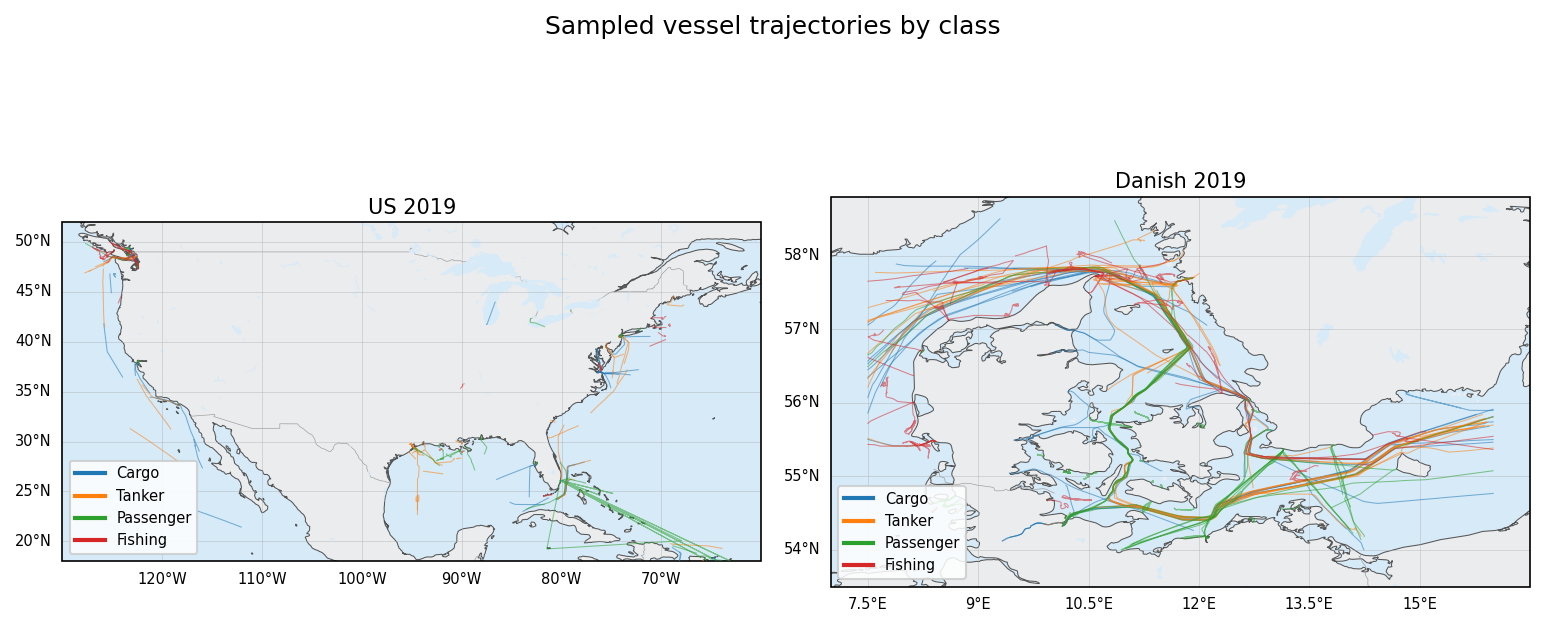
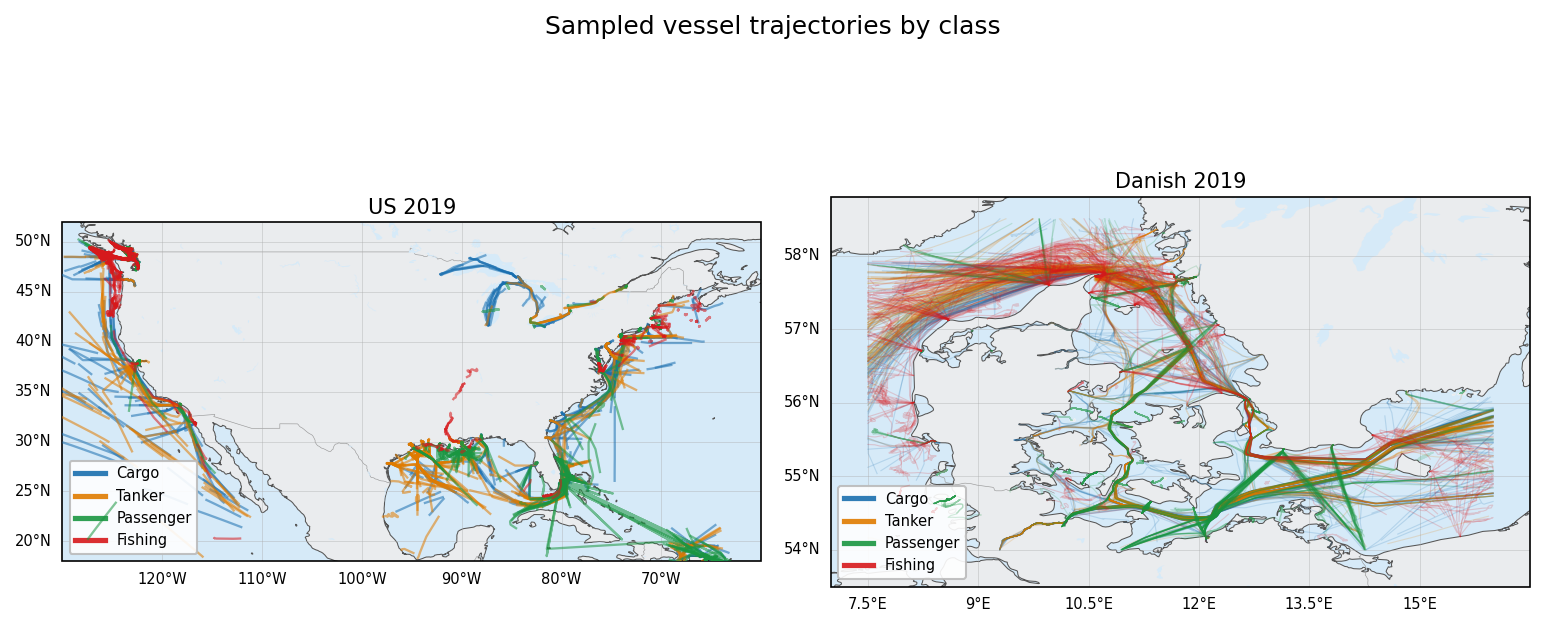
Increase trajectory density; adaptive alpha/lw per extent
- 500 samples/class (was 40); per-panel alpha and lw now scale with
  sqrt(extent_area) so US (~2400 sq-deg) and Danish (~50 sq-deg) read
  at comparable visual density
- More saturated class colors; draw order puts rarer classes on top

diff --git a/scripts/plot_trajectories.py b/scripts/plot_trajectories.py
@@ -24,8 +24,9 @@ import matplotlib.pyplot as plt
 import numpy as np
 import pandas as pd
 
-# class colors match paper/make_figures.py
-C = {"cargo": "#1f77b4", "tanker": "#ff7f0e", "passenger": "#2ca02c", "fishing": "#d62728"}
+# More saturated palette; draw order puts rarer/smaller classes on top
+C      = {"cargo": "#1a6faf", "tanker": "#e07b00", "passenger": "#1a9641", "fishing": "#d7191c"}
+ZORDER = {"cargo": 4, "tanker": 5, "passenger": 6, "fishing": 7}
 CLASSES = ["cargo", "tanker", "passenger", "fishing"]
 
 # Hard-coded extents [lon_min, lon_max, lat_min, lat_max] per region name prefix.
@@ -75,6 +76,19 @@ def _get_extent(name: str, trajs: list) -> list[float]:
     return [lo - pw, hi + pw, la - ph, ha + ph]
 
 
+def _alpha_lw(extent: list[float]) -> tuple[float, float]:
+    """Scale alpha and lw with extent area so large/small panels look equally dense."""
+    lon_min, lon_max, lat_min, lat_max = extent
+    area = (lon_max - lon_min) * (lat_max - lat_min)
+    # Danish ~50 sq-deg → anchor: alpha=0.18, lw=0.55
+    # US    ~2380 sq-deg → scales up by sqrt ratio ≈ 6.9x → alpha≈0.45 (capped), lw≈0.9
+    ref = 50.0
+    ratio = (area / ref) ** 0.5
+    alpha = min(0.55, 0.18 * ratio)
+    lw    = min(1.1,  0.55 * ratio ** 0.4)
+    return alpha, lw
+
+
 def _draw_panel_cartopy(fig, pos, trajs, title, extent):
     import cartopy.crs as ccrs
     import cartopy.feature as cfeature
@@ -97,19 +111,24 @@ def _draw_panel_cartopy(fig, pos, trajs, title, extent):
     gl.xlabel_style = {"size": 7}
     gl.ylabel_style = {"size": 7}
 
-    for cls, lat, lon in trajs:
-        # clip to extent so cartopy doesn't try to wrap across antimeridian
-        mask = (lon >= lon_min) & (lon <= lon_max) & (lat >= lat_min) & (lat <= lat_max)
-        if mask.sum() < 2:
-            continue
-        ax.plot(lon[mask], lat[mask], lw=0.5, alpha=0.55, color=C[cls],
-                transform=proj, zorder=4)
+    alpha, lw = _alpha_lw(extent)
+    # draw in zorder so rarer classes paint on top; low alpha accumulates density
+    for cls in CLASSES:
+        for c, lat, lon in trajs:
+            if c != cls:
+                continue
+            mask = (lon >= lon_min) & (lon <= lon_max) & (lat >= lat_min) & (lat <= lat_max)
+            if mask.sum() < 2:
+                continue
+            ax.plot(lon[mask], lat[mask], lw=lw, alpha=alpha, color=C[cls],
+                    transform=proj, zorder=ZORDER[cls])
 
-    # legend
-    handles = [plt.Line2D([0], [0], color=C[c], lw=2, label=c.capitalize())
+    # legend — thicker line so color reads at small size
+    handles = [plt.Line2D([0], [0], color=C[c], lw=2.5, label=c.capitalize(),
+                          alpha=0.9)
                for c in CLASSES if any(t[0] == c for t in trajs)]
     ax.legend(handles=handles, fontsize=7, loc="lower left",
-              framealpha=0.85, edgecolor="#ccc")
+              framealpha=0.9, edgecolor="#bbb")
     ax.set_title(title, fontsize=10, pad=4)
     return ax
 
@@ -117,13 +136,18 @@ def _draw_panel_cartopy(fig, pos, trajs, title, extent):
 def _draw_panel_fallback(ax, trajs, title, extent):
     """No-cartopy fallback: plain lon/lat with aspect correction."""
     lon_min, lon_max, lat_min, lat_max = extent
-    for cls, lat, lon in trajs:
-        mask = (lon >= lon_min) & (lon <= lon_max) & (lat >= lat_min) & (lat <= lat_max)
-        if mask.sum() < 2:
-            continue
-        ax.plot(lon[mask], lat[mask], lw=0.5, alpha=0.55, color=C[cls])
+    alpha, lw = _alpha_lw(extent)
+    for cls in CLASSES:
+        for c, lat, lon in trajs:
+            if c != cls:
+                continue
+            mask = (lon >= lon_min) & (lon <= lon_max) & (lat >= lat_min) & (lat <= lat_max)
+            if mask.sum() < 2:
+                continue
+            ax.plot(lon[mask], lat[mask], lw=lw, alpha=alpha, color=C[cls],
+                    zorder=ZORDER[cls])
 
-    handles = [plt.Line2D([0], [0], color=C[c], lw=2, label=c.capitalize())
+    handles = [plt.Line2D([0], [0], color=C[c], lw=2.5, label=c.capitalize(), alpha=0.9)
                for c in CLASSES if any(t[0] == c for t in trajs)]
     ax.legend(handles=handles, fontsize=7, loc="lower left")
     ax.set_xlim(lon_min, lon_max)
@@ -140,7 +164,7 @@ def main():
     p = argparse.ArgumentParser()
     p.add_argument("--region", nargs=2, action="append", metavar=("NAME", "PROCESSED_DIR"),
                    required=True)
-    p.add_argument("--per-class", type=int, default=40)
+    p.add_argument("--per-class", type=int, default=500)
     p.add_argument("--seed", type=int, default=0)
     p.add_argument("--out", type=Path, default=Path("paper/figures/f_traj_maps.png"))
     args = p.parse_args()